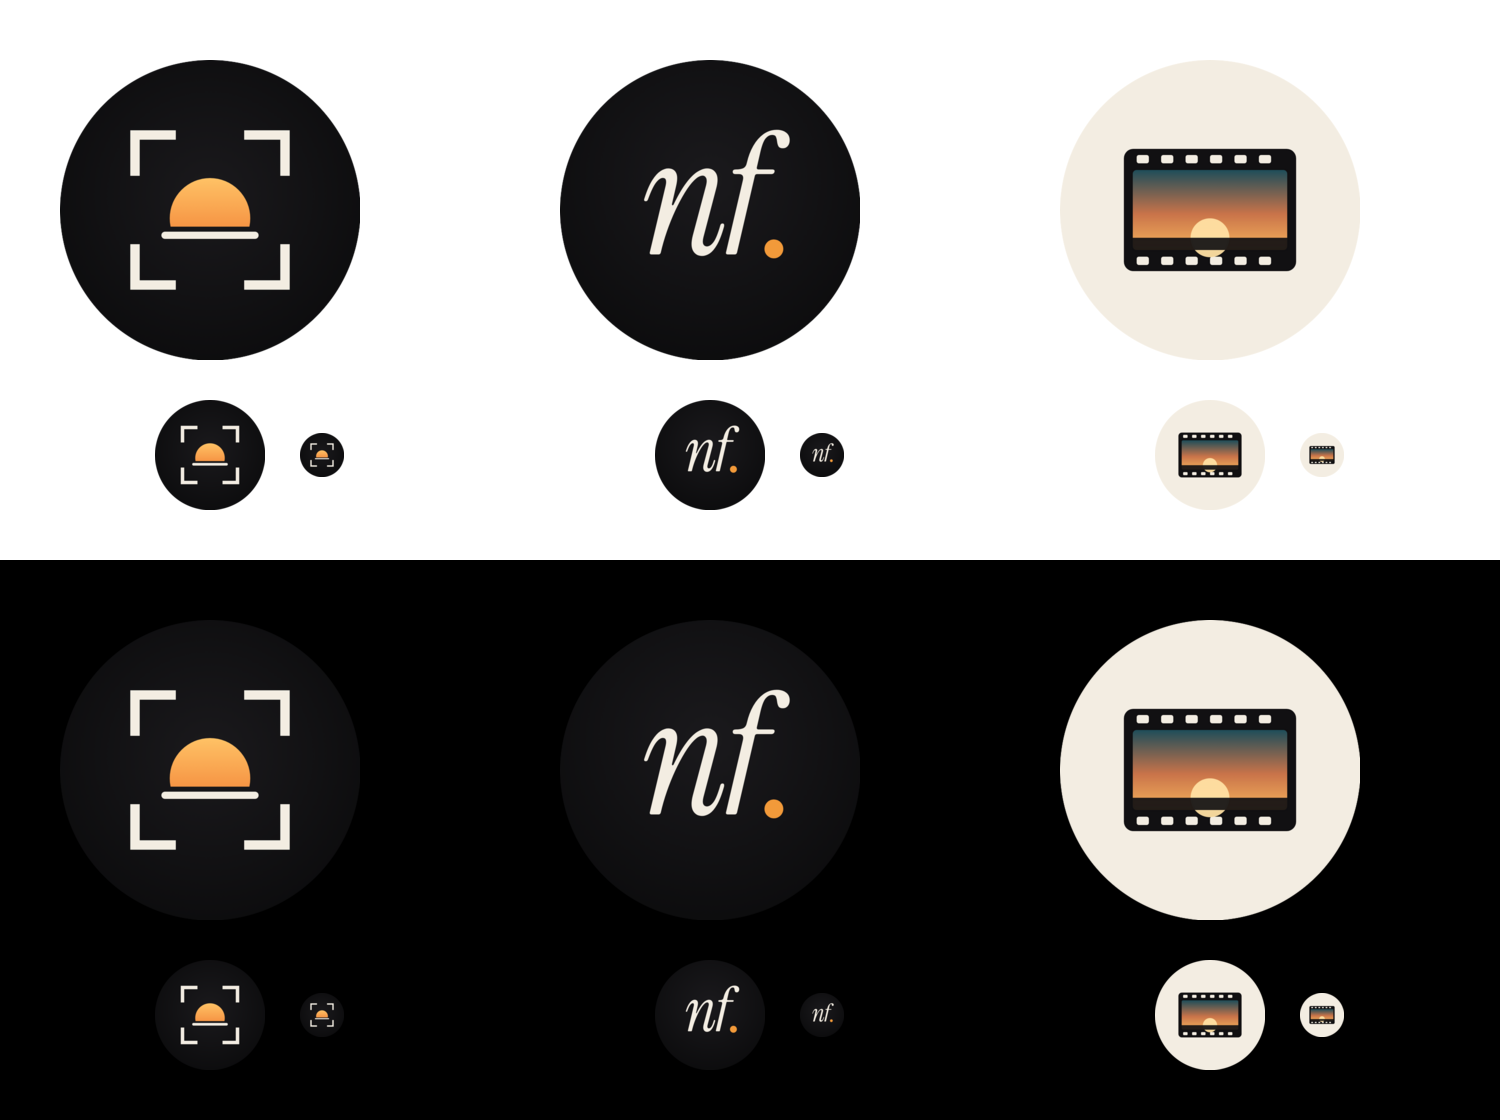
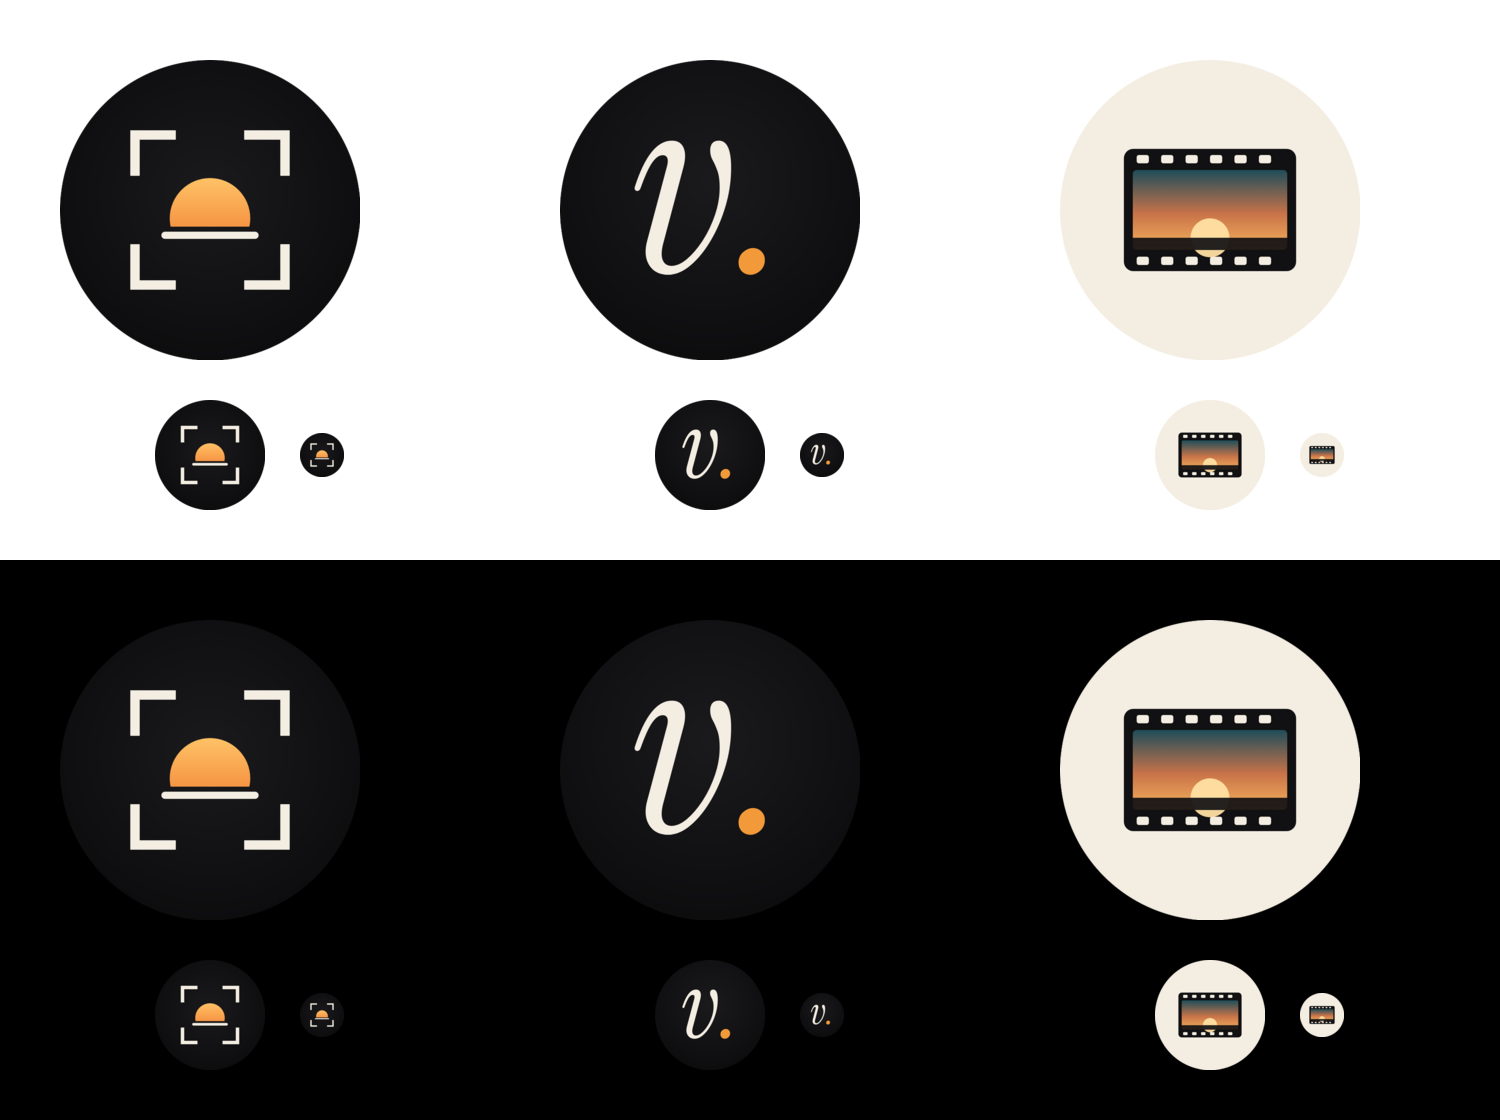
Rebrand Instagram assets from neverfilmed to vavermo
neverfilmed was taken on Instagram; vavermo is free. Profile mockup,
name field copy and README updated, monogram logo redrawn as "v.",
avatar-size and profile previews re-rendered.

Claude-Session: https://claude.ai/code/session_01Mxh84jy8okTmJe73sTrwga

diff --git a/blog/brand/src/profile.html b/blog/brand/src/profile.html
@@ -28,7 +28,7 @@
 </head>
 <body>
 <div class="wrap">
-  <div class="handle">neverfilmed</div>
+  <div class="handle">vavermo</div>
   <div class="top">
     <div class="avatar"><img src="../logo-1-viewfinder.png"></div>
     <div class="stats">
@@ -37,7 +37,7 @@
       <div><b>0</b><span>following</span></div>
     </div>
   </div>
-  <div class="name">Neverfilmed | AI Video &amp; AI Tools</div>
+  <div class="name">Vavermo | AI Video &amp; AI Tools</div>
   <div class="cat">Digital creator</div>
   <div class="bio">Cinematic AI video + the tools that make it 🎬
 Tutorials • prompts • honest tool tests

diff --git a/blog/brand/src/logos.html b/blog/brand/src/logos.html
@@ -46,9 +46,8 @@
     </radialGradient>
   </defs>
   <rect width="1080" height="1080" fill="url(#bg2)"/>
-  <text x="510" y="700" text-anchor="middle" font-family="Instrument Serif" font-style="italic"
-        font-size="600" fill="#F3EDE2" letter-spacing="-20">nf</text>
-  <circle cx="770" cy="680" r="34" fill="#F29A3A"/>
+  <text x="540" y="765" text-anchor="middle" font-family="Instrument Serif" font-style="italic"
+        font-size="920" fill="#F3EDE2">v<tspan fill="#F29A3A">.</tspan></text>
 </svg>
 
 <!-- 3: Empty film frame with golden-hour sky -->

diff --git a/blog/brand/README.md b/blog/brand/README.md
@@ -1,4 +1,4 @@
-# neverfilmed — брендинг Instagram
+# vavermo — брендинг Instagram
 
 Блог: англоязычные Reels без лица. Ниша — AI-видео и AI-инструменты: кинематографичные ролики, туториалы, промпты, тесты и сравнения инструментов.
 
@@ -9,7 +9,7 @@
 | Файл | Идея | Мелкий размер |
 |---|---|---|
 | `logo-1-viewfinder.png` ⭐ | Рамка видоискателя + закатное солнце: «кадр без камеры» | читается отлично |
-| `logo-2-monogram.png` | Монограмма `nf.` в стиле киностудии | читается хорошо |
+| `logo-2-monogram.png` | Монограмма `v.` в стиле киностудии | читается хорошо |
 | `logo-3-film-frame.png` | Пустой кадр плёнки с закатом | в 44 px сливается |
 
 Превью: `preview-avatar-sizes.png` (профиль / лента / комментарии, светлая и тёмная тема), `preview-profile-dark.png` / `preview-profile-light.png` (шапка целиком).
@@ -18,9 +18,11 @@
 
 ## Шапка профиля
 
+**Имя пользователя:** `vavermo` (ва-ВЕР-мо)
+
 **Поле «Имя»** (до 64 символов, участвует в поиске):
-- `Neverfilmed | AI Video & AI Tools` — обе части темы, ключевые слова для поиска (рекомендую)
-- `Neverfilmed | AI Video & Tools` — короче
+- `Vavermo | AI Video & AI Tools` — обе части темы, ключевые слова для поиска (рекомендую)
+- `Vavermo | AI Video & Tools` — короче
 
 **Категория:** Digital creator
 
